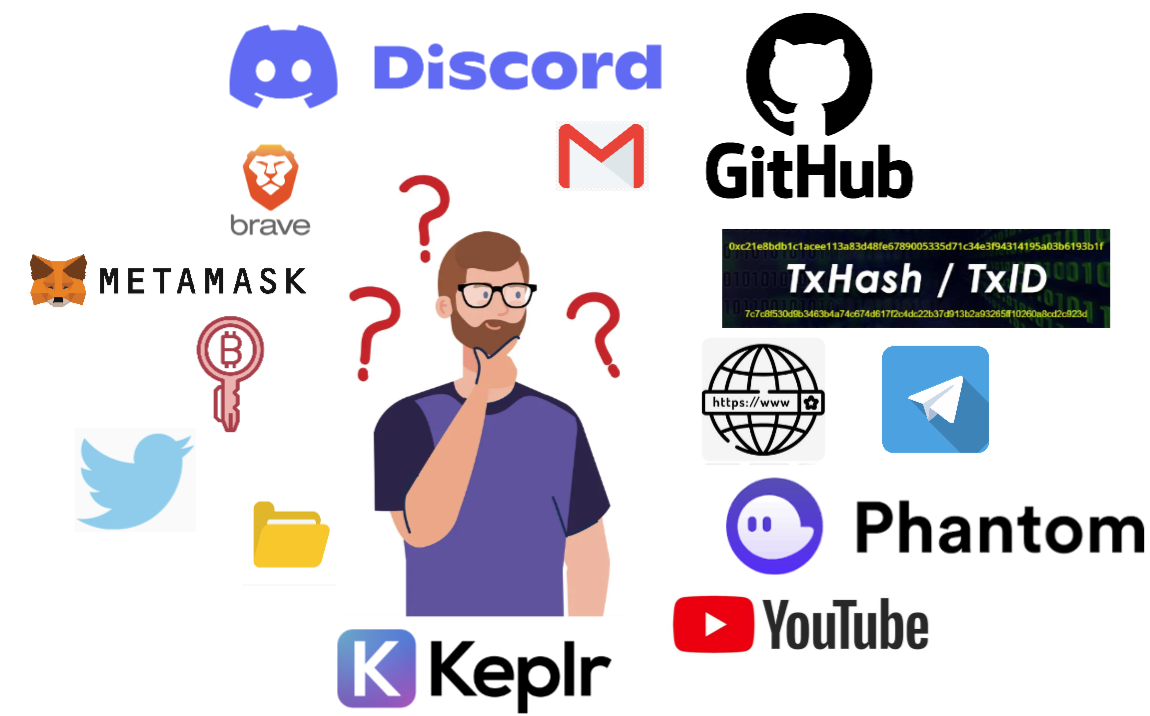
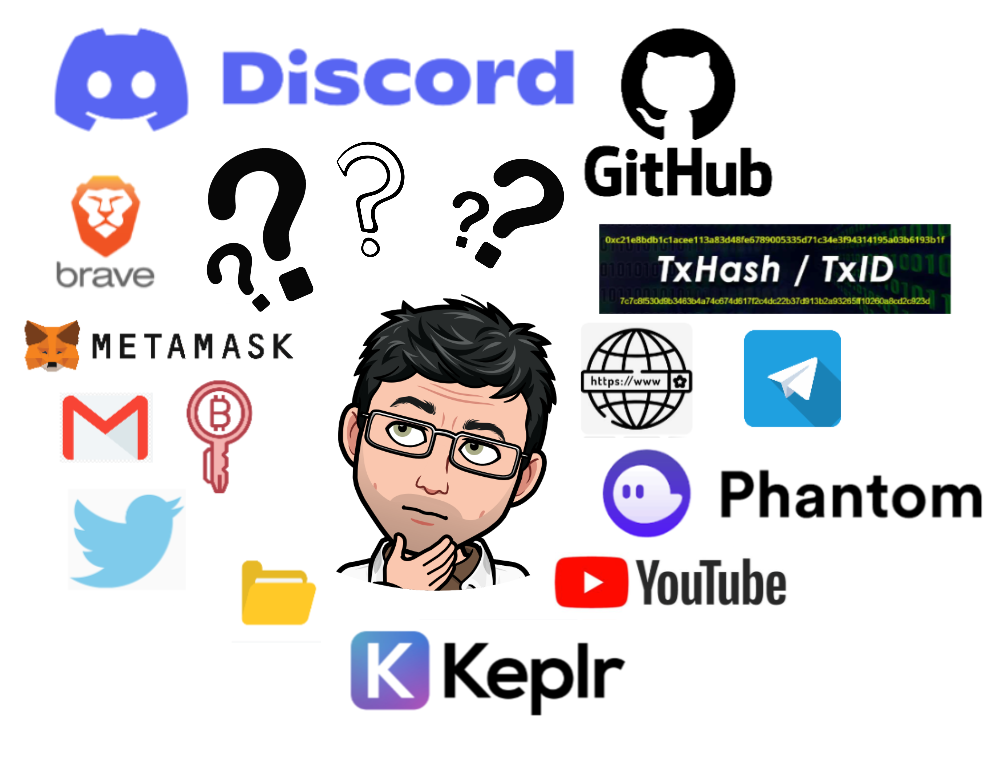
Edited showtestnet so creation date and update date of the current testnet is displayed

diff --git a/templates/showtestnet.html b/templates/showtestnet.html
@@ -16,7 +16,7 @@
 
             <div class="card-header py-3">
                 <h6 class="h3 m-0 font-weight-bold text-primary">Testnet by <code>{{ object.author }}</code> :
-                    {{ object.testnet_name }}</h6>
+                    {{ object.testnet_name }} <br> created <code>{{ object.created_on|date }}</code> with last update made <code>{{ object.updated_on|date }}</code> </h6>
                     {% if testnet.status_testnet == 2  %}<p class="text-danger">(Reported) - copy and Edition not available</p>{% endif %}
             </div>
             <div class="card-body">
@@ -241,6 +241,44 @@
                 REPORT
             </button> 
         {% else %}
+
+
+            {% if testnet.status_testnet == 2 and request.user.user_info.status == 1 %}
+                <!--Testnet is reported and admin is connected, available for cancel report-->
+                <button type="button" class="btn btn-danger btn-user btn-block" data-toggle="modal" data-target="#CancelReportTestnet{{ testnet.id }}">
+                    CANCEL REPORT
+                </button>
+                <div class="modal" id="CancelReportTestnet{{ testnet.id }}" tabindex="-1" aria-labelledby="CancelReportTestnetLabel{{ testnet.id }}" aria-hidden="true">
+                    <div class="modal-dialog">
+                        <div class="modal-content">
+                            <div class="modal-header">
+                                <h5 class="modal-title h3 text-secondary" id="CancelReportTestnetLabel{{ testnet.id }}">
+                                    <i class="fa-sharp fa-solid fa-circle-exclamation text-danger fa-4x"></i>
+                                </h5>
+                            </div>
+                            <form method="get" action="{% url 'report_testnet' slug=testnet.slug_original %}">
+                                {% csrf_token %}
+                                <div class="modal-body">
+                                    <p class="h4 font-weight-bold text-uppercase text-primary align-center">
+                                        Do you really want to cancel the report for this Testnet  : {{ testnet.testnet_name }} ?
+                                    </p>
+                                </div>
+                                <div class="modal-footer">
+                                    <button type="submit" class="btn btn-success btn-user">
+                                        YES
+                                    </button>
+                                    <button type="button" class="btn btn-danger btn-user" data-dismiss="modal" aria-label="Close">
+                                        NO
+                                    </button>
+                                </div>
+                            </form>
+                        </div>
+                    </div>
+                </div>
+            {% else %}
+
+            
+
             <button type="button" class="btn btn-danger btn-user btn-block" data-toggle="modal" data-target="#ReportTestnet{{ testnet.id }}">
                 REPORT
             </button>
@@ -271,6 +309,7 @@
                     </div>
                 </div>
             </div>
+            {% endif %}
         {% endif %}
     </div>
     <div class="col-xl-6 col-sm-12 col-md-12 py-3">

diff --git a/templates/index.html b/templates/index.html
@@ -13,16 +13,16 @@
 
             <!-- Illustrations -->
             <div class="col-xl-12 col-md-12">
-                <div>
+               
 
-                    <div>
+                    
                         <div class="text-center">
                             <img class="img-fluid px-3 px-sm-4 mt-3 mb-4" style="width: 45rem;"
                                 src="{% static 'assets/images/home_image01.png' %}" alt="home page main Image">
                         </div>
 
-                    </div>
-                </div>
+                    
+               
             </div>
         </div>
         <div class="row padding-10-pourcent-left-right">
@@ -81,8 +81,25 @@
         <br>
 
 
+        <div class="row padding-10-pourcent-left-right">
 
+            <!-- Illustrations -->
+            <div class="col-xl-12 col-md-12">
+               
 
+                    
+                        <div class="text-center">
+                            <img class="img-fluid px-3 px-sm-4 mt-3 mb-4" style="width: 35rem;"
+                                src="{% static 'assets/images/home_image02.png' %}" alt="home page main Image">
+                        </div>
+
+                    
+               
+            </div>
+        </div>
+        <br>
+        <hr>
+        <br>
 
 
         <div class="container-fluid feature-image-outer">

diff --git a/app/models.py b/app/models.py
@@ -57,7 +57,7 @@ class Testnet(models.Model):
     wallet2_password = models.CharField(max_length=30, blank=True)
     wallet2_session = models.CharField(max_length=30, blank=True)
     wallet2_clue = models.TextField(blank=True)
-    created_on = models.DateTimeField(auto_now=True)
+    created_on = models.DateTimeField(auto_now_add=True)
     updated_on = models.DateTimeField(auto_now=True)
     copied_nb = models.IntegerField(default=0, blank=True)
     twitter_user = models.CharField(max_length=21, blank=True)
@@ -318,6 +318,7 @@ class UserInfo(models.Model):
 
     def __str__(self):
         return f"{self.user}"
+
 
 
 class CheckList(models.Model):

diff --git a/app/views.py b/app/views.py
@@ -317,7 +317,7 @@ class FormTestnetMixin:
     def update_all_copied_testnet(self, form):
         """
         Update all the copied testnet from the updated Testnet
-        Of course We update only the Testnet information, each user keep their info on each Testnet
+        Of course We update only the Testnet information, each user keep their personal info on each Testnet
         """
         testnet = self.get_object()
         if testnet.author == self.request.user:

diff --git a/app/migrations/0023_alter_testnet_created_on.py b/app/migrations/0023_alter_testnet_created_on.py
@@ -1,0 +1,18 @@
+# Generated by Django 3.2.16 on 2023-02-09 00:17
+
+from django.db import migrations, models
+
+
+class Migration(migrations.Migration):
+
+    dependencies = [
+        ('app', '0022_auto_20230207_2110'),
+    ]
+
+    operations = [
+        migrations.AlterField(
+            model_name='testnet',
+            name='created_on',
+            field=models.DateTimeField(auto_now_add=True),
+        ),
+    ]

diff --git a/app/forms.py b/app/forms.py
@@ -52,7 +52,7 @@ class TestnetForm(forms.ModelForm):
     class Meta:
         model = Testnet
         fields = "__all__"
-        exclude = ['author', 'testnet_user', 'slug_original', 'status_testnet']
+        exclude = ['author', 'testnet_user', 'slug_original', 'status_testnet', 'created_on']
 
         widgets = {
           'description': forms.Textarea(attrs={'rows':2, 'cols':45}),
